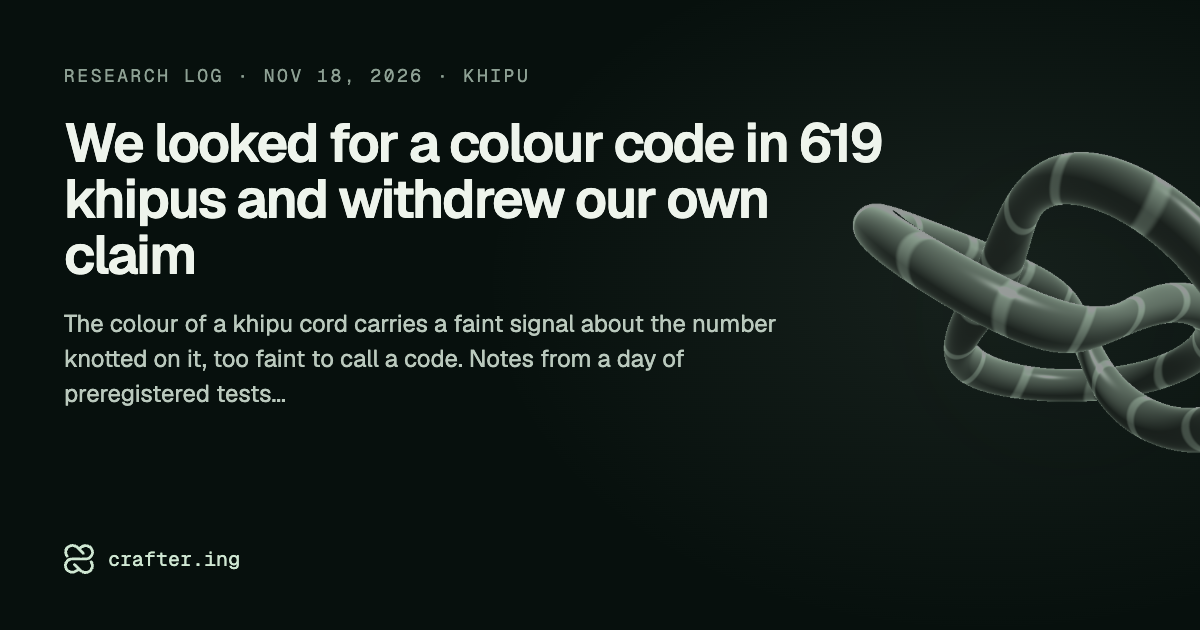
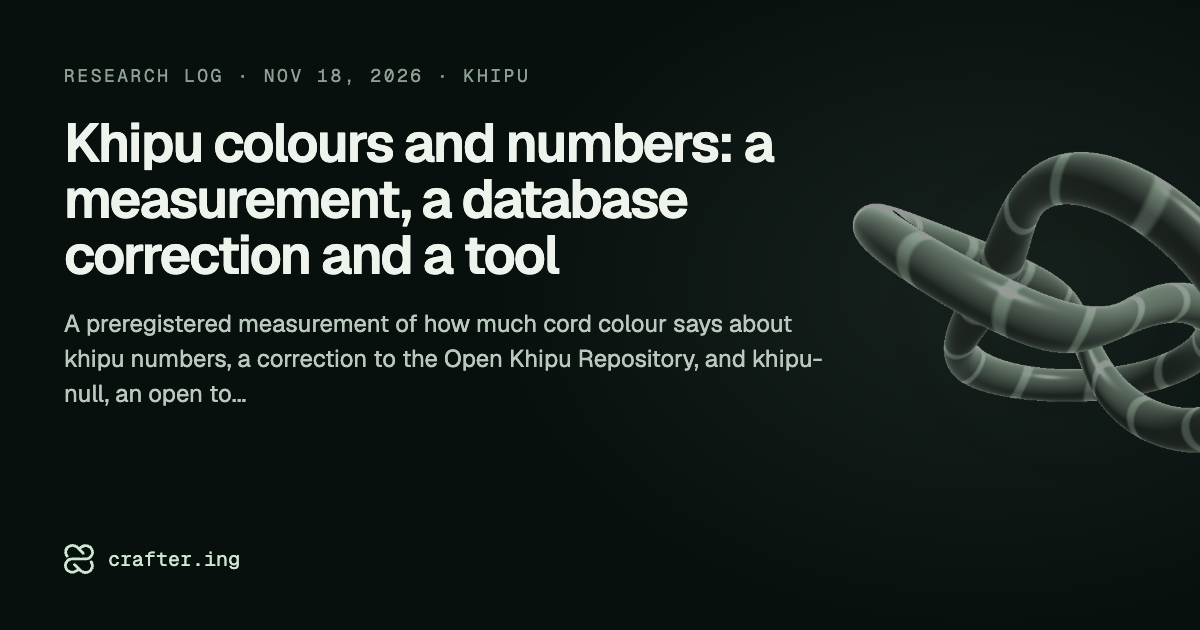
feat(research): khipu log title, tone and khipu-null section (#23)

Changed region(s): [[0.0617, 0.181, 0.74, 0.4524], [0.0617, 0.4825, 0.6783, 0.6635]]

diff --git a/src/content/research/es/04-khipu-colour-legend.md b/src/content/research/es/04-khipu-colour-legend.md
@@ -1,24 +1,24 @@
 ---
-title: "Buscamos un código de colores en 619 khipus y retiramos nuestra propia afirmación"
-description: "El color de una cuerda de khipu lleva una señal débil sobre el número anudado en ella, demasiado débil para llamarla código. Notas de un día de pruebas preregistradas, con lo que hicimos mal."
+title: "Colores y números en los khipus: una medición, una corrección a la base de datos y una herramienta"
+description: "Una medición preregistrada de cuánto dice el color de una cuerda sobre los números de un khipu, una corrección al Open Khipu Repository y khipu-null, una herramienta abierta para poner a prueba patrones en khipus frente al azar."
 abstract: |
-  Preguntamos si el color de una cuerda de khipu dice algo sobre el número anudado en ella. La respuesta es un poco. Dentro de un mismo khipu, el color ayuda a adivinar el tamaño del número de una cuerda, y el efecto aparece en las dos grandes colecciones publicadas. Cuando tomamos en cuenta dónde está cada cuerda, la ganancia es mínima y queda por debajo de un mínimo que habíamos escrito antes. Así que retiramos la afirmación.
+  Medimos cuánto dice el color de una cuerda de khipu sobre el número anudado en ella. Dentro de un mismo khipu, el color aporta 0,016 bits por cuerda sobre el tamaño del número cuando se controla la disposición de las cuerdas, en las dos grandes colecciones publicadas. Eso queda por debajo del umbral de 0,02 que fijamos para una leyenda de colores, así que esa afirmación se retira.
 
-  En el camino revisamos el emparejamiento más conocido entre khipus y un documento colonial, y encontramos un problema de codificación en la base de datos pública.
+  También revisamos el emparejamiento más conocido entre khipus y un documento colonial, documentamos un error de codificación en la base pública y publicamos khipu-null, la herramienta detrás de estas pruebas.
 date: 2026-11-18T22:00:00Z
 status: result
 urlSlug: khipu-colour-legend
 lang: es
 project: khipu
 author: railly
-tags: [khipu, desciframiento, preregistro, resultado-negativo, peru]
+tags: [khipu, desciframiento, preregistro, codigo-abierto, peru]
 ---
 
 <figure class="research-hero"><img src="/research/khipu/kh0326.svg" alt="Un khipu dibujado a partir de sus registros, con cerca de cien cuerdas de colores colgando de una cuerda principal horizontal y nudos blancos a lo largo de ellas" width="850" height="558"><figcaption>KH0326, uno de los seis khipus del valle de Santa, dibujado a partir de sus registros. Cada línea es una cuerda en su color registrado, a escala. Los puntos de arriba son decenas y las barras de abajo son unidades, así que una cuerda con un punto y una barra de cinco vueltas se lee 15.</figcaption></figure>
 
 ## La respuesta corta
 
-El color lleva una señal débil sobre los números de un khipu. Es demasiado débil para llamarla código, así que retiramos nuestra afirmación de que cada khipu tiene su propia leyenda de colores.
+El color aporta 0,016 bits por cuerda sobre el número de una cuerda, en las dos grandes colecciones. Eso queda por debajo del umbral de 0,02 que fijamos para una leyenda de colores, así que retiramos esa afirmación.
 
 ## Cómo guarda números un khipu
 
@@ -32,15 +32,15 @@ Partimos de una pregunta: si conoces el color de una cuerda, ¿puedes adivinar m
 
 Cada prueba quedó escrita antes de mirar el resultado, con la medida que la decidía y lo que contaría como fracaso. Eso es un <span class="term" tabindex="0" data-tip="Escribir la apuesta, la medida y lo que la descartaría antes de mirar los resultados.">preregistro</span>. La mayoría comparó los colores reales con las mismas cuerdas con los colores <span class="term" tabindex="0" data-tip="Repetimos la prueba con los colores mezclados al azar. Si el resultado no cambia, el color no aportaba nada.">barajados al azar</span>. Medimos la diferencia en <span class="term" tabindex="0" data-tip="Cuántas preguntas de sí o no te ahorras, en promedio, al adivinar el número de una cuerda. 0,016 es casi nada.">bits por cuerda</span>.
 
-## Las pruebas más estrictas dejaron poca señal
+## Cuatro controles, una estimación
 
-La primera versión decía que sí, con claridad. Los controles que siguieron quitaron cosas que podían imitar un código de colores, y lo que queda es poco.
+Cada control quitó algo que puede imitar un código de colores. La estimación pasó de 0,085 a 0,016 bits por cuerda.
 
 <figure class="research-figure"><svg viewBox="0 0 720 250" role="img" aria-label="Señal del color por prueba" style="width:100%;height:auto;font-family:var(--font-sans);font-size:13px"><text x="288" y="51" text-anchor="end" style="fill:var(--color-text)">Colores barajados dentro de cada khipu</text><rect x="300" y="34" width="296.9" height="26" rx="4" style="fill:var(--color-accent);opacity:0.55"/><text x="604.9" y="51" style="fill:var(--color-muted-strong)">0,085</text><text x="288" y="95" text-anchor="end" style="fill:var(--color-text)">Barajados dentro de cada grupo de cuerdas</text><rect x="300" y="78" width="150.7" height="26" rx="4" style="fill:var(--color-accent);opacity:0.55"/><text x="458.7" y="95" style="fill:var(--color-muted-strong)">0,043</text><text x="288" y="139" text-anchor="end" style="fill:var(--color-text)">Grupos enteros apartados, 200 barajados</text><rect x="300" y="122" width="189.4" height="26" rx="4" style="fill:var(--color-accent);opacity:0.55"/><text x="497.4" y="139" style="fill:var(--color-muted-strong)">0,054</text><text x="288" y="183" text-anchor="end" style="fill:var(--color-text)">Posición de la cuerda descontada</text><rect x="300" y="166" width="55.7" height="26" rx="4" style="fill:var(--color-accent);opacity:1"/><text x="378.0" y="183" style="fill:var(--color-muted-strong)">0,016</text><line x1="370.0" x2="370.0" y1="24" y2="198" style="stroke:var(--color-muted-strong);stroke-width:1.5;stroke-dasharray:4 4"/><text x="376.0" y="20" style="fill:var(--color-muted-strong)">Mínimo fijado: 0,02</text><line x1="300" x2="300" y1="28" y2="198" style="stroke:var(--color-border)"/><text x="300" y="240" style="fill:var(--color-muted)">Bits por cuerda ganados con los colores reales</text></svg>
 
 <figcaption>La señal del color en cada prueba más estricta. La última barra toma en cuenta dónde está cada cuerda dentro de su grupo, y no llega a la línea de 0,02.</figcaption></figure>
 
-La última caída vino de la posición. Las cuerdas en el mismo lugar de un patrón que se repite suelen compartir color y tamaño de número, así que parte de la señal "del color" era en realidad disposición. Lo señaló una revisión independiente de Fable, un modelo de IA corrido por separado, con acceso de solo lectura a nuestro código y nuestros datos.
+La última caída vino de la posición. Las cuerdas en el mismo lugar de un patrón que se repite suelen compartir color y tamaño de número, así que parte de la señal "del color" era en realidad disposición. Una revisión independiente de Fable, un modelo de IA corrido por separado y con acceso de solo lectura a nuestro código y nuestros datos, identificó el confusor, y la prueba final lo controla.
 
 La prueba final tomó en cuenta la posición y corrió por separado en las dos grandes colecciones, los khipus descritos por <span class="term" tabindex="0" data-tip="Los dos equipos de investigación cuyos registros forman la mayor parte de la base pública: Marcia y Robert Ascher, y el proyecto de Gary Urton en Harvard.">los proyectos Ascher y Urton</span>. Para pasar, el color tenía que ganarle a 200 barajados, ahorrar al menos 0,02 bits por cuerda y ayudar en más de la mitad de los khipus.
 
@@ -49,7 +49,9 @@ La prueba final tomó en cuenta la posición y corrió por separado en las dos g
 
 Las dos colecciones le ganan a todos los barajados, y el color ayuda en el 75% de los khipus Ascher y en el 58% de los khipus Urton. La ganancia es de 0,016 bits por cuerda en ambas, por debajo de 0,02, así que la afirmación se retira.
 
-## En qué nos equivocamos
+## Desviaciones del protocolo
+
+Seis desviaciones, cada una registrada en el repositorio.
 
 - Fijamos el mínimo de 0,02 después de ver resultados previos de 0,054 y 0,036. No fue un umbral a ciegas.
 - Hasta que publicamos, los preregistros estaban guardados solo en una computadora local. Nadie más puede comprobar sus fechas antes de ese día.
@@ -60,7 +62,7 @@ Las dos colecciones le ganan a todos los barajados, y el color ayuda en el 75% d
 
 La lista completa, con cada prueba y cada cambio, está en el [repositorio](https://github.com/crafter-research/khipu).
 
-## De paso, el caso del valle de Santa
+## Revisión del emparejamiento del valle de Santa
 
 Seis khipus del valle de Santa se emparejaron con un censo de 1670 de San Pedro de Corongo, un pueblo de 132 tributarios en seis <span class="term" tabindex="0" data-tip="Grupos de parentesco locales, que los censos coloniales contaban como unidades.">pachacas</span> que debían 367 pesos. Urton tituló su capítulo sobre ellos con la pregunta de si son un "khipu Rosetta".
 
@@ -69,13 +71,25 @@ Seis khipus del valle de Santa se emparejaron con un censo de 1670 de San Pedro 
 - La propia tabla de Urton da 359. Llega a 367 y una fracción asignando valores a dos cuerdas rotas. Otras doce primeras cuerdas valen cero y se quedan en cero.
 - Un paper posterior cita totales de 381 o 382 y 86 para las dos mitades. Eso no suma 367. Si una mitad es 86, la otra tiene que ser 281 o 282, así que 381 podría ser una errata. Usamos la edición en español del libro de Urton y no revisamos la edición en inglés.
 
-También encontramos un problema de codificación. En KH0326, el khipu del dibujo, la base pública registra los nudos de las decenas como centenas, así que 15 se vuelve 105. Al mover ese dígito, 106 de sus 108 cuerdas colgantes coinciden con el Khipu Field Guide, y la tabla de Urton muestra los mismos valores en escala de decenas. Vamos a compartirlo con quienes mantienen la base.
+La base pública codifica mal KH0326, el khipu del dibujo. Los nudos de las decenas aparecen como centenas, así que 15 se vuelve 105. Al mover ese dígito, 106 de sus 108 cuerdas colgantes coinciden con el Khipu Field Guide, y la tabla de Urton muestra los mismos valores en escala de decenas. La corrección está documentada en el repositorio para quienes mantienen la base.
+
+## La herramienta: khipu-null
+
+Empaquetamos los nulos de estas pruebas en [khipu-null](https://github.com/crafter-research/khipu-null), una herramienta de línea de comandos de código abierto. Describes un patrón (tamaños de grupo, qué cuerdas llevan totales, repeticiones de color, amarre) y la herramienta ordena todos los khipus de un corpus según ese patrón. Cada puntaje se compara con versiones del mismo khipu donde solo se permuta el campo que lee esa característica, así que la disposición nunca se mueve. Con un patrón escrito a partir de los khipus del valle de Santa, cinco de los seis quedan en el top 6 de 328, y el promedio del top 6 es 0,994 frente a un rango nulo de 0,954 a 0,986 (p = 0,001). Es una prueba de cordura, porque el patrón sale de esos mismos khipus, y ningún khipu individual llega a q ≤ 0,05.
+
+```bash
+uvx --from git+https://github.com/crafter-research/khipu-null khipu-null rank okr.csv santa-valley.yaml -o out --top 6
+```
+
+<figure class="research-figure"><svg viewBox="0 0 720 300" role="img" aria-label="Puntaje de coincidencia" style="width:100%;height:auto;font-family:var(--font-sans);font-size:13px"><line x1="60" x2="700" y1="198.8" y2="198.8" style="stroke:var(--color-border)"/><text x="52" y="202.8" text-anchor="end" style="fill:var(--color-muted)">0,80</text><line x1="60" x2="700" y1="116.5" y2="116.5" style="stroke:var(--color-border)"/><text x="52" y="120.5" text-anchor="end" style="fill:var(--color-muted)">0,90</text><line x1="60" x2="700" y1="34.1" y2="34.1" style="stroke:var(--color-border)"/><text x="52" y="38.1" text-anchor="end" style="fill:var(--color-muted)">1,00</text><rect x="62.7" y="45.9" width="122.7" height="26.0" rx="3" style="fill:var(--color-muted);opacity:0.18"/><text x="62.7" y="87.9" style="fill:var(--color-muted-strong)">Top 6 bajo el nulo</text><circle cx="70.7" cy="34.1" r="6" style="fill:var(--color-accent)"><title>KH0324</title></circle><circle cx="92.0" cy="34.1" r="6" style="fill:var(--color-accent)"><title>KH0327</title></circle><circle cx="113.3" cy="34.1" r="4" style="fill:var(--color-muted);opacity:0.6"><title>KH0109</title></circle><circle cx="134.7" cy="34.1" r="6" style="fill:var(--color-accent)"><title>KH0328</title></circle><circle cx="156.0" cy="38.1" r="6" style="fill:var(--color-accent)"><title>KH0325</title></circle><circle cx="177.3" cy="58.3" r="6" style="fill:var(--color-accent)"><title>KH0323</title></circle><circle cx="198.7" cy="59.9" r="4" style="fill:var(--color-muted);opacity:0.6"><title>KH0384</title></circle><circle cx="220.0" cy="71.6" r="4" style="fill:var(--color-muted);opacity:0.6"><title>KH0630</title></circle><circle cx="241.3" cy="87.2" r="4" style="fill:var(--color-muted);opacity:0.6"><title>KH0488</title></circle><circle cx="262.7" cy="92.9" r="4" style="fill:var(--color-muted);opacity:0.6"><title>KH0527</title></circle><circle cx="284.0" cy="105.1" r="4" style="fill:var(--color-muted);opacity:0.6"><title>KH0055</title></circle><circle cx="305.3" cy="119.2" r="4" style="fill:var(--color-muted);opacity:0.6"><title>KH0469</title></circle><circle cx="326.7" cy="145.4" r="4" style="fill:var(--color-muted);opacity:0.6"><title>KH0092</title></circle><circle cx="348.0" cy="146.4" r="4" style="fill:var(--color-muted);opacity:0.6"><title>KH0272</title></circle><circle cx="369.3" cy="151.8" r="4" style="fill:var(--color-muted);opacity:0.6"><title>KH0098</title></circle><circle cx="390.7" cy="163.5" r="4" style="fill:var(--color-muted);opacity:0.6"><title>KH0448</title></circle><circle cx="412.0" cy="176.7" r="4" style="fill:var(--color-muted);opacity:0.6"><title>KH0436</title></circle><circle cx="433.3" cy="178.9" r="4" style="fill:var(--color-muted);opacity:0.6"><title>KH0162</title></circle><circle cx="454.7" cy="198.8" r="4" style="fill:var(--color-muted);opacity:0.6"><title>KH0062</title></circle><circle cx="476.0" cy="198.8" r="4" style="fill:var(--color-muted);opacity:0.6"><title>KH0316</title></circle><circle cx="497.3" cy="216.1" r="4" style="fill:var(--color-muted);opacity:0.6"><title>KH0364</title></circle><circle cx="518.7" cy="221.3" r="4" style="fill:var(--color-muted);opacity:0.6"><title>KH0460</title></circle><circle cx="470" cy="282" r="6" style="fill:var(--color-accent)"/><text x="482" y="286" style="fill:var(--color-text)">Khipu del valle de Santa</text><circle cx="66" cy="282" r="4" style="fill:var(--color-muted);opacity:0.6"/><text x="76" y="286" style="fill:var(--color-text)">Otros khipus</text><text x="380" y="262" text-anchor="middle" style="fill:var(--color-muted)">Puesto entre 328 khipus</text></svg>
+
+<figcaption>Las 30 mejores coincidencias con el patrón del valle de Santa. Los puntos verdes son khipus del valle de Santa. La banda gris es donde quedaría el top 6 si se barajaran los valores de cada khipu.</figcaption></figure>
 
 ## Qué queda en pie y qué sigue
 
 El color lleva una cantidad pequeña y consistente de información sobre el tamaño del número de una cuerda dentro de un khipu, más allá de su posición. No es una costumbre de un solo equipo de investigación, y es demasiado pequeña para llamarla código.
 
-La pieza que falta no es un mejor modelo. El espaciado entre cuerdas casi nunca está registrado, solo en el 0,008% de las cuerdas colgantes de la base. Las preguntas sobre cómo se agrupan las cuerdas lo necesitan, y tiene que salir de fotografías. Ese es el próximo instrumento que queremos construir.
+El límite son los datos, no el modelo. El espaciado entre cuerdas casi nunca está registrado, solo en el 0,008% de las cuerdas colgantes de la base. Las preguntas sobre cómo se agrupan las cuerdas lo necesitan, y tiene que salir de fotografías. Es el próximo instrumento que planeamos construir.
 
 ## Datos y artefactos
 
@@ -83,4 +97,4 @@ La pieza que falta no es un mejor modelo. El espaciado entre cuerdas casi nunca 
 - Los libros de trabajo del [Khipu Field Guide](https://www.khipufieldguide.com) para 611 de ellos.
 - Medrano y Urton (2018), FitzPatrick (2024) y Urton (2017), capítulo 12 y su apéndice con los 133 grupos de seis cuerdas.
 
-Preregistros, scripts, resultados y las dos revisiones están en [github.com/crafter-research/khipu](https://github.com/crafter-research/khipu). Los datos se descargan de sus fuentes públicas, así que puedes volver a correr cada número. Si usas o mencionas este trabajo, por favor da crédito a "Crafter Research (2026), Khipu colours and numbers".
+La herramienta está en [github.com/crafter-research/khipu-null](https://github.com/crafter-research/khipu-null). Preregistros, scripts, resultados y las dos revisiones están en [github.com/crafter-research/khipu](https://github.com/crafter-research/khipu). Los datos se descargan de sus fuentes públicas, así que puedes volver a correr cada número. Si usas o mencionas este trabajo, por favor da crédito a "Crafter Research (2026), Khipu colours and numbers".

diff --git a/src/content/research/en/04-khipu-colour-legend.md b/src/content/research/en/04-khipu-colour-legend.md
@@ -1,24 +1,24 @@
 ---
-title: "We looked for a colour code in 619 khipus and withdrew our own claim"
-description: "The colour of a khipu cord carries a faint signal about the number knotted on it, too faint to call a code. Notes from a day of preregistered tests, including what we got wrong."
+title: "Khipu colours and numbers: a measurement, a database correction and a tool"
+description: "A preregistered measurement of how much cord colour says about khipu numbers, a correction to the Open Khipu Repository, and khipu-null, an open tool for testing khipu patterns against chance."
 abstract: |
-  We asked whether the colour of a khipu cord tells you anything about the number knotted on it. The answer is a little. Inside a single khipu, colour helps guess the size of a cord's number, and the effect shows up in both of the large published collections. Once we account for where each cord sits, the gain is tiny, below a minimum we had written down. So we withdrew the claim.
+  We measured how much the colour of a khipu cord says about the number knotted on it. Inside a single khipu, colour carries 0.016 bits per cord about the size of a cord's number once cord layout is controlled, in both large published collections. That is below the 0.02 threshold we set for a colour legend, so the legend claim is withdrawn.
 
-  Along the way we rechecked the best-known match between khipus and a colonial document, and found a coding problem in the public database.
+  We also rechecked the best-known match between khipus and a colonial document, documented a coding error in the public database, and released khipu-null, the tool behind these tests.
 date: 2026-11-18T22:00:00Z
 status: result
 urlSlug: khipu-colour-legend
 lang: en
 project: khipu
 author: railly
-tags: [khipu, decipherment, preregistration, negative-result, peru]
+tags: [khipu, decipherment, preregistration, open-source, peru]
 ---
 
 <figure class="research-hero"><img src="/research/khipu/kh0326.svg" alt="A khipu drawn from its records, with about a hundred coloured cords hanging from a horizontal main cord and white knots along them" width="850" height="558"><figcaption>KH0326, one of six khipus from the Santa Valley, drawn from its records. Each line is a cord in its recorded colour, to scale. Dots higher up are tens and bars lower down are units, so a cord with one dot and a five-turn bar reads 15.</figcaption></figure>
 
 ## The short answer
 
-Colour carries a faint signal about the numbers on a khipu. It is too faint to call a code, so we withdrew our claim that each khipu has its own colour legend.
+Colour carries 0.016 bits per cord about a cord's number, in both major collections. That is below the 0.02 threshold we set for a colour legend, so we withdrew the legend claim.
 
 ## How a khipu holds numbers
 
@@ -32,15 +32,15 @@ We started with one question: if you know a cord's colour, can you guess its num
 
 Each test was written down before we looked at the outcome, with the measure that would decide it and what would count as failure. That is a <span class="term" tabindex="0" data-tip="Writing down the bet, the measure and what would kill it before looking at the results.">preregistration</span>. Most of them compared the real colours against the same cords with their colours <span class="term" tabindex="0" data-tip="We rerun the test with the colours mixed up at random. If the result does not change, colour was not adding anything.">shuffled at random</span>. We measured the difference in <span class="term" tabindex="0" data-tip="How many yes-or-no questions you save, on average, when guessing a cord's number. 0.016 is almost nothing.">bits per cord</span>.
 
-## Stricter tests left little signal
+## Four controls, one estimate
 
-The first version said yes, clearly. The controls that followed removed things that could imitate a colour code, and what is left is small.
+Each control removed something that can imitate a colour code. The estimate went from 0.085 to 0.016 bits per cord.
 
 <figure class="research-figure"><svg viewBox="0 0 720 250" role="img" aria-label="Colour signal per test" style="width:100%;height:auto;font-family:var(--font-sans);font-size:13px"><text x="288" y="51" text-anchor="end" style="fill:var(--color-text)">Colours shuffled inside each khipu</text><rect x="300" y="34" width="296.9" height="26" rx="4" style="fill:var(--color-accent);opacity:0.55"/><text x="604.9" y="51" style="fill:var(--color-muted-strong)">0.085</text><text x="288" y="95" text-anchor="end" style="fill:var(--color-text)">Shuffled inside each group of cords</text><rect x="300" y="78" width="150.7" height="26" rx="4" style="fill:var(--color-accent);opacity:0.55"/><text x="458.7" y="95" style="fill:var(--color-muted-strong)">0.043</text><text x="288" y="139" text-anchor="end" style="fill:var(--color-text)">Whole groups held out, 200 shuffles</text><rect x="300" y="122" width="189.4" height="26" rx="4" style="fill:var(--color-accent);opacity:0.55"/><text x="497.4" y="139" style="fill:var(--color-muted-strong)">0.054</text><text x="288" y="183" text-anchor="end" style="fill:var(--color-text)">Cord position taken into account</text><rect x="300" y="166" width="55.7" height="26" rx="4" style="fill:var(--color-accent);opacity:1"/><text x="378.0" y="183" style="fill:var(--color-muted-strong)">0.016</text><line x1="370.0" x2="370.0" y1="24" y2="198" style="stroke:var(--color-muted-strong);stroke-width:1.5;stroke-dasharray:4 4"/><text x="376.0" y="20" style="fill:var(--color-muted-strong)">Minimum we set: 0.02</text><line x1="300" x2="300" y1="28" y2="198" style="stroke:var(--color-border)"/><text x="300" y="240" style="fill:var(--color-muted)">Bits per cord gained from real colours</text></svg>
 
 <figcaption>The colour signal under each stricter test. The last bar accounts for where each cord sits in its group, and it falls short of the 0.02 line.</figcaption></figure>
 
-The last drop came from position. Cords in the same place of a repeating pattern tend to share both a colour and a size of number, so part of the "colour" signal was really layout. An independent review by Fable, an AI model run separately with read-only access to our code and data, pointed this out.
+The last drop came from position. Cords in the same place of a repeating pattern tend to share both a colour and a size of number, so part of the "colour" signal was really layout. An independent review by Fable, an AI model run separately with read-only access to our code and data, identified the confound, and the final test controls for it.
 
 The final test accounted for position and ran separately on the two large collections, the khipus described by <span class="term" tabindex="0" data-tip="The two research teams whose recordings make up most of the public database: Marcia and Robert Ascher, and Gary Urton's Harvard project.">the Ascher and Urton projects</span>. To pass, colour had to beat 200 shuffles, gain at least 0.02 bits per cord, and help in more than half of the khipus.
 
@@ -49,7 +49,9 @@ The final test accounted for position and ran separately on the two large collec
 
 Both collections beat every shuffle, and colour helps in 75% of the Ascher khipus and 58% of the Urton khipus. The gain is 0.016 bits per cord in both, below 0.02, so the claim is withdrawn.
 
-## What we got wrong
+## Deviations from protocol
+
+Six departures, each recorded in the repository.
 
 - We set the 0.02 minimum after seeing earlier results of 0.054 and 0.036. It was not a blind threshold.
 - Our preregistrations were committed only on a local computer until we published. Their timestamps cannot be checked by anyone else before that day.
@@ -60,7 +62,7 @@ Both collections beat every shuffle, and colour helps in 75% of the Ascher khipu
 
 The full list, with every test and each change, is in the [repository](https://github.com/crafter-research/khipu).
 
-## Along the way, the Santa Valley case
+## Rechecking the Santa Valley match
 
 Six khipus from the Santa Valley were matched to a 1670 census of San Pedro de Corongo, a town of 132 tributaries in six <span class="term" tabindex="0" data-tip="Local kin groups, each counted as a unit in colonial censuses.">pachacas</span> who owed 367 pesos. Urton titled his chapter on them with the question of whether they are a "Rosetta khipu".
 
@@ -69,13 +71,25 @@ Six khipus from the Santa Valley were matched to a 1670 census of San Pedro de C
 - Urton's own table reads 359. He reaches 367 and a fraction by giving values to two broken cords. Twelve other first cords are zero and stay zero.
 - A later paper cites totals of 381 or 382 and 86 for the two halves. Those do not add up to 367. If one half is 86, the other must be 281 or 282, so 381 may be a misprint. We used the Spanish edition of Urton's book and have not checked the English one.
 
-We also found a coding problem. On KH0326, the khipu in the drawing, the public database records knots in the tens place as hundreds, so 15 becomes 105. After moving that digit, 106 of its 108 hanging cords match the Khipu Field Guide, and Urton's table shows the same tens-scale values. We will share this with the database maintainers.
+The public database miscodes KH0326, the khipu in the drawing. Knots in the tens place are recorded as hundreds, so 15 becomes 105. After moving that digit, 106 of its 108 hanging cords match the Khipu Field Guide, and Urton's table shows the same tens-scale values. The correction is documented in the repository for the maintainers.
+
+## The tool: khipu-null
+
+We packaged the nulls from these tests as [khipu-null](https://github.com/crafter-research/khipu-null), an open-source command-line tool. You describe a pattern (group sizes, which cords hold totals, colour repeats, attachment) and it ranks every khipu in a corpus against it. Each score is compared with versions of the same khipu where only the field that feature reads is permuted, so the layout never moves. With a pattern written from the Santa Valley khipus, five of the six rank in the top 6 of 328, and the top-6 mean is 0.994 against a null range of 0.954 to 0.986 (p = 0.001). That is a sanity check, since the pattern comes from those khipus, and no single khipu reaches q ≤ 0.05.
+
+```bash
+uvx --from git+https://github.com/crafter-research/khipu-null khipu-null rank okr.csv santa-valley.yaml -o out --top 6
+```
+
+<figure class="research-figure"><svg viewBox="0 0 720 300" role="img" aria-label="Match score" style="width:100%;height:auto;font-family:var(--font-sans);font-size:13px"><line x1="60" x2="700" y1="198.8" y2="198.8" style="stroke:var(--color-border)"/><text x="52" y="202.8" text-anchor="end" style="fill:var(--color-muted)">0.80</text><line x1="60" x2="700" y1="116.5" y2="116.5" style="stroke:var(--color-border)"/><text x="52" y="120.5" text-anchor="end" style="fill:var(--color-muted)">0.90</text><line x1="60" x2="700" y1="34.1" y2="34.1" style="stroke:var(--color-border)"/><text x="52" y="38.1" text-anchor="end" style="fill:var(--color-muted)">1.00</text><rect x="62.7" y="45.9" width="122.7" height="26.0" rx="3" style="fill:var(--color-muted);opacity:0.18"/><text x="62.7" y="87.9" style="fill:var(--color-muted-strong)">Top 6 under the null</text><circle cx="70.7" cy="34.1" r="6" style="fill:var(--color-accent)"><title>KH0324</title></circle><circle cx="92.0" cy="34.1" r="6" style="fill:var(--color-accent)"><title>KH0327</title></circle><circle cx="113.3" cy="34.1" r="4" style="fill:var(--color-muted);opacity:0.6"><title>KH0109</title></circle><circle cx="134.7" cy="34.1" r="6" style="fill:var(--color-accent)"><title>KH0328</title></circle><circle cx="156.0" cy="38.1" r="6" style="fill:var(--color-accent)"><title>KH0325</title></circle><circle cx="177.3" cy="58.3" r="6" style="fill:var(--color-accent)"><title>KH0323</title></circle><circle cx="198.7" cy="59.9" r="4" style="fill:var(--color-muted);opacity:0.6"><title>KH0384</title></circle><circle cx="220.0" cy="71.6" r="4" style="fill:var(--color-muted);opacity:0.6"><title>KH0630</title></circle><circle cx="241.3" cy="87.2" r="4" style="fill:var(--color-muted);opacity:0.6"><title>KH0488</title></circle><circle cx="262.7" cy="92.9" r="4" style="fill:var(--color-muted);opacity:0.6"><title>KH0527</title></circle><circle cx="284.0" cy="105.1" r="4" style="fill:var(--color-muted);opacity:0.6"><title>KH0055</title></circle><circle cx="305.3" cy="119.2" r="4" style="fill:var(--color-muted);opacity:0.6"><title>KH0469</title></circle><circle cx="326.7" cy="145.4" r="4" style="fill:var(--color-muted);opacity:0.6"><title>KH0092</title></circle><circle cx="348.0" cy="146.4" r="4" style="fill:var(--color-muted);opacity:0.6"><title>KH0272</title></circle><circle cx="369.3" cy="151.8" r="4" style="fill:var(--color-muted);opacity:0.6"><title>KH0098</title></circle><circle cx="390.7" cy="163.5" r="4" style="fill:var(--color-muted);opacity:0.6"><title>KH0448</title></circle><circle cx="412.0" cy="176.7" r="4" style="fill:var(--color-muted);opacity:0.6"><title>KH0436</title></circle><circle cx="433.3" cy="178.9" r="4" style="fill:var(--color-muted);opacity:0.6"><title>KH0162</title></circle><circle cx="454.7" cy="198.8" r="4" style="fill:var(--color-muted);opacity:0.6"><title>KH0062</title></circle><circle cx="476.0" cy="198.8" r="4" style="fill:var(--color-muted);opacity:0.6"><title>KH0316</title></circle><circle cx="497.3" cy="216.1" r="4" style="fill:var(--color-muted);opacity:0.6"><title>KH0364</title></circle><circle cx="518.7" cy="221.3" r="4" style="fill:var(--color-muted);opacity:0.6"><title>KH0460</title></circle><circle cx="470" cy="282" r="6" style="fill:var(--color-accent)"/><text x="482" y="286" style="fill:var(--color-text)">Santa Valley khipu</text><circle cx="66" cy="282" r="4" style="fill:var(--color-muted);opacity:0.6"/><text x="76" y="286" style="fill:var(--color-text)">Other khipus</text><text x="380" y="262" text-anchor="middle" style="fill:var(--color-muted)">Rank among 328 khipus</text></svg>
+
+<figcaption>The 30 best matches for the Santa Valley pattern. Green dots are Santa Valley khipus. The grey band is where the top 6 would land if each khipu's values were shuffled.</figcaption></figure>
 
 ## What stands and what is next
 
 Colour carries a small, consistent amount of information about the size of a cord's number inside a khipu, beyond position. It is not a quirk of one research team, and it is too small to call a code.
 
-The missing piece is not a better model. The spacing between cords is almost never recorded, in 0.008% of hanging cords in the database. Questions about how cords are grouped need it, and it has to come from photographs. That is the next instrument we want to build.
+The limit is data, not modelling. The spacing between cords is almost never recorded, in 0.008% of hanging cords in the database. Questions about how cords are grouped need it, and it has to come from photographs. It is the next instrument we plan to build.
 
 ## Data and artifacts
 
@@ -83,4 +97,4 @@ The missing piece is not a better model. The spacing between cords is almost nev
 - The [Khipu Field Guide](https://www.khipufieldguide.com) workbooks for 611 of them.
 - Medrano and Urton (2018), FitzPatrick (2024), and Urton (2017), chapter 12 and its appendix with all 133 groups of six cords.
 
-Preregistrations, scripts, results and both reviews are in [github.com/crafter-research/khipu](https://github.com/crafter-research/khipu). The data downloads from its public sources, so you can rerun every number. If you use or mention this work, please credit "Crafter Research (2026), Khipu colours and numbers".
+The tool is [github.com/crafter-research/khipu-null](https://github.com/crafter-research/khipu-null). Preregistrations, scripts, results and both reviews are in [github.com/crafter-research/khipu](https://github.com/crafter-research/khipu). The data downloads from its public sources, so you can rerun every number. If you use or mention this work, please credit "Crafter Research (2026), Khipu colours and numbers".
